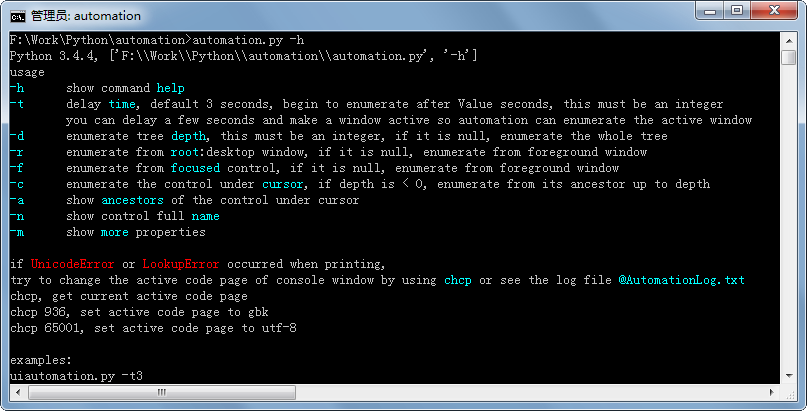
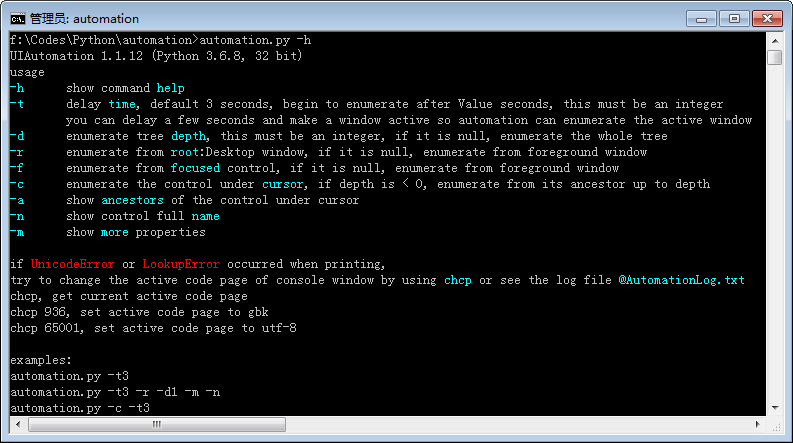
modify automation.py

Changed region(s): [[0.0, 0.0, 1.0, 1.0]]

diff --git a/automation.py b/automation.py
@@ -4,7 +4,7 @@ import sys
 import time
 
 from uiautomation import (Win32API, Logger, ControlFromCursor, GetRootControl, GetFocusedControl,
-                                       EnumAndLogControlAncestors, EnumAndLogControl, ConsoleColor)
+                            LogControl, EnumAndLogControlAncestors, EnumAndLogControl, ConsoleColor)
 from uiautomation import VERSION
 
 
@@ -14,7 +14,7 @@ def usage():
 <Color=Cyan>-t</Color>      delay <Color=Cyan>time</Color>, default 3 seconds, begin to enumerate after Value seconds, this must be an integer
         you can delay a few seconds and make a window active so automation can enumerate the active window
 <Color=Cyan>-d</Color>      enumerate tree <Color=Cyan>depth</Color>, this must be an integer, if it is null, enumerate the whole tree
-<Color=Cyan>-r</Color>      enumerate from <Color=Cyan>root</Color>:desktop window, if it is null, enumerate from foreground window
+<Color=Cyan>-r</Color>      enumerate from <Color=Cyan>root</Color>:Desktop window, if it is null, enumerate from foreground window
 <Color=Cyan>-f</Color>      enumerate from <Color=Cyan>focused</Color> control, if it is null, enumerate from foreground window
 <Color=Cyan>-c</Color>      enumerate the control under <Color=Cyan>cursor</Color>, if depth is < 0, enumerate from its ancestor up to depth
 <Color=Cyan>-a</Color>      show <Color=Cyan>ancestors</Color> of the control under cursor
@@ -48,6 +48,7 @@ def main():
     focus = False
     cursor = False
     ancestor = False
+    foreground = True
     showAllName = False
     showMore = False
     depth = 0xFFFFFFFF
@@ -58,12 +59,16 @@ def main():
             exit(0)
         elif o in ('-r', '-root'):
             root = True
+            foreground = False
         elif o in ('-f', '-focus'):
             focus = True
+            foreground = False
         elif o in ('-c', '-cursor'):
             cursor = True
+            foreground = False
         elif o in ('-a', '-ancestor'):
             ancestor = True
+            foreground = False
         elif o in ('-n', '-showAllName'):
             showAllName = True
         elif o in ('-m', '-showMore'):
@@ -73,7 +78,7 @@ def main():
         elif o in ('-t', '-time'):
             seconds = int(v)
     if seconds > 0:
-        Logger.Write('please wait for {0} seconds\n\n'.format(seconds), writeToFile=False)
+        Logger.Write('please wait for {0} seconds\n\n'.format(seconds), writeToFile = False)
         time.sleep(seconds)
     Logger.Log('Starts, Current Cursor Position: {}'.format(Win32API.GetCursorPos()))
     control = None
@@ -84,7 +89,7 @@ def main():
     if cursor:
         control = ControlFromCursor()
         if depth < 0:
-            while depth < 0:
+            while depth < 0 and control:
                 control = control.GetParentControl()
                 depth += 1
             depth = 0xFFFFFFFF
@@ -93,8 +98,9 @@ def main():
         if control:
             EnumAndLogControlAncestors(control, showAllName, showMore)
         else:
-            Logger.Write('IUIAutomation return null element under cursor\n', ConsoleColor.Yellow)
+            Logger.Write('IUIAutomation returns null element under cursor\n', ConsoleColor.Yellow)
     else:
+        indent = 0
         if not control:
             control = GetFocusedControl()
             controlList = []
@@ -105,7 +111,10 @@ def main():
                 control = controlList[0]
             else:
                 control = controlList[1]
-        EnumAndLogControl(control, depth, showAllName, showMore)
+                if foreground:
+                    indent = 1
+                    LogControl(controlList[0], 0, showAllName, showMore)
+        EnumAndLogControl(control, depth, showAllName, showMore, startIndent = indent)
     Logger.Log('Ends\n')
 
 if __name__ == '__main__':

diff --git a/scripts/automation.py b/scripts/automation.py
@@ -4,7 +4,7 @@ import sys
 import time
 
 from uiautomation import (Win32API, Logger, ControlFromCursor, GetRootControl, GetFocusedControl,
-                                       EnumAndLogControlAncestors, EnumAndLogControl, ConsoleColor)
+                            LogControl, EnumAndLogControlAncestors, EnumAndLogControl, ConsoleColor)
 from uiautomation import VERSION
 
 
@@ -14,7 +14,7 @@ def usage():
 <Color=Cyan>-t</Color>      delay <Color=Cyan>time</Color>, default 3 seconds, begin to enumerate after Value seconds, this must be an integer
         you can delay a few seconds and make a window active so automation can enumerate the active window
 <Color=Cyan>-d</Color>      enumerate tree <Color=Cyan>depth</Color>, this must be an integer, if it is null, enumerate the whole tree
-<Color=Cyan>-r</Color>      enumerate from <Color=Cyan>root</Color>:desktop window, if it is null, enumerate from foreground window
+<Color=Cyan>-r</Color>      enumerate from <Color=Cyan>root</Color>:Desktop window, if it is null, enumerate from foreground window
 <Color=Cyan>-f</Color>      enumerate from <Color=Cyan>focused</Color> control, if it is null, enumerate from foreground window
 <Color=Cyan>-c</Color>      enumerate the control under <Color=Cyan>cursor</Color>, if depth is < 0, enumerate from its ancestor up to depth
 <Color=Cyan>-a</Color>      show <Color=Cyan>ancestors</Color> of the control under cursor
@@ -48,6 +48,7 @@ def main():
     focus = False
     cursor = False
     ancestor = False
+    foreground = True
     showAllName = False
     showMore = False
     depth = 0xFFFFFFFF
@@ -58,12 +59,16 @@ def main():
             exit(0)
         elif o in ('-r', '-root'):
             root = True
+            foreground = False
         elif o in ('-f', '-focus'):
             focus = True
+            foreground = False
         elif o in ('-c', '-cursor'):
             cursor = True
+            foreground = False
         elif o in ('-a', '-ancestor'):
             ancestor = True
+            foreground = False
         elif o in ('-n', '-showAllName'):
             showAllName = True
         elif o in ('-m', '-showMore'):
@@ -73,7 +78,7 @@ def main():
         elif o in ('-t', '-time'):
             seconds = int(v)
     if seconds > 0:
-        Logger.Write('please wait for {0} seconds\n\n'.format(seconds), writeToFile=False)
+        Logger.Write('please wait for {0} seconds\n\n'.format(seconds), writeToFile = False)
         time.sleep(seconds)
     Logger.Log('Starts, Current Cursor Position: {}'.format(Win32API.GetCursorPos()))
     control = None
@@ -84,7 +89,7 @@ def main():
     if cursor:
         control = ControlFromCursor()
         if depth < 0:
-            while depth < 0:
+            while depth < 0 and control:
                 control = control.GetParentControl()
                 depth += 1
             depth = 0xFFFFFFFF
@@ -93,8 +98,9 @@ def main():
         if control:
             EnumAndLogControlAncestors(control, showAllName, showMore)
         else:
-            Logger.Write('IUIAutomation return null element under cursor\n', ConsoleColor.Yellow)
+            Logger.Write('IUIAutomation returns null element under cursor\n', ConsoleColor.Yellow)
     else:
+        indent = 0
         if not control:
             control = GetFocusedControl()
             controlList = []
@@ -105,7 +111,10 @@ def main():
                 control = controlList[0]
             else:
                 control = controlList[1]
-        EnumAndLogControl(control, depth, showAllName, showMore)
+                if foreground:
+                    indent = 1
+                    LogControl(controlList[0], 0, showAllName, showMore)
+        EnumAndLogControl(control, depth, showAllName, showMore, startIndent = indent)
     Logger.Log('Ends\n')
 
 if __name__ == '__main__':

diff --git a/uiautomation/uiautomation.py b/uiautomation/uiautomation.py
@@ -2401,7 +2401,7 @@ class Control(LegacyIAccessiblePattern, QTPLikeSyntaxSupport):
         element: integer
         searchFromControl: Control, if is None, search from root control
         searchDepth: integer, max search depth from searchFromControl
-        foundIndex: integer, value must be greater or equal to 1
+        foundIndex: integer, value must >= 1
         searchWaitTime: float, wait searchWaitTime before every search
         searchPorpertyDict: a dict that defines how to search, only the following keys are valid
                             ControlType: integer in class ControlType
@@ -2410,7 +2410,7 @@ class Control(LegacyIAccessiblePattern, QTPLikeSyntaxSupport):
                             Name: str or unicode
                             SubName: str or unicode
                             RegexName: str or unicode, supports regex
-                            Depth: integer, exact depth from searchFromControl, if set, searchDepth will be set to Depth too
+                            Depth: integer, relative depth from searchFromControl, if set, searchDepth will be set to Depth too
                             Compare: custom compare function(control, depth)
         """
         self._element = element
@@ -4380,7 +4380,7 @@ def EnumAndLogControlAncestors(control, showAllName = True, showMore = False):
         LogControl(control, i, showAllName, showMore)
 
 
-def EnumAndLogControl(control, maxDepth = 0xFFFFFFFF, showAllName = True, showMore = False):
+def EnumAndLogControl(control, maxDepth = 0xFFFFFFFF, showAllName = True, showMore = False, startIndent = 0):
     """
     control: Control
     maxDepth: integer
@@ -4388,7 +4388,7 @@ def EnumAndLogControl(control, maxDepth = 0xFFFFFFFF, showAllName = True, showMo
     showMore: bool
     """
     for c, d in WalkControl(control, True, maxDepth):
-        LogControl(c, d, showAllName, showMore)
+        LogControl(c, d + startIndent, showAllName, showMore)
 
 
 def FindControl(control, compareFunc, maxDepth = 0xFFFFFFFF, findFromSelf = False, foundIndex = 1):

diff --git a/uiautomation/version.py b/uiautomation/version.py
@@ -1,1 +1,1 @@
-VERSION = "1.1.11"
+VERSION = "1.1.12"

diff --git a/readme.md b/readme.md
@@ -46,36 +46,46 @@ run notepad.exe, run automation.py -t 3, swith to Notepad and wait for 5 seconds
   
 automation.py will print the controls of Notepad and save them to @AutomationLog.txt:  
   
-ControlType: WindowControl    ClassName: Notepad  
-　　ControlType: EditControl    ClassName: Edit  
-　　　　ControlType: ScrollBarControl    ClassName:  
-　　　　　　ControlType: ButtonControl    ClassName:  
-　　　　　　ControlType: ButtonControl    ClassName:  
-　　　　ControlType: ScrollBarControl    ClassName:  
-　　　　　　ControlType: ButtonControl    ClassName:  
-　　　　　　ControlType: ButtonControl    ClassName:  
-　　　　ControlType: ThumbControl    ClassName:  
-　　ControlType: StatusBarControl    ClassName:  
-　　　　ControlType: TextControl    ClassName:  
-　　　　ControlType: TextControl    ClassName:  
+ControlType: PaneControl    ClassName: #32769    Name: 桌面    Depth: 0    **(Desktop window, the root control)**  
+　　ControlType: WindowControl    ClassName: Notepad    Depth: 1    **(Top level window)**  
+　　　　ControlType: EditControl    ClassName: Edit    Depth: 2  
+　　　　　　ControlType: ScrollBarControl    ClassName:     Depth: 3  
+　　　　　　　　ControlType: ButtonControl    ClassName:     Depth: 4  
+　　　　　　　　ControlType: ButtonControl    ClassName:     Depth: 4  
+　　　　　　ControlType: ThumbControl    ClassName:     Depth: 3  
+　　　　ControlType: TitleBarControl    ClassName:     Depth: 2  
+　　　　　　ControlType: MenuBarControl    ClassName:     Depth: 3  
+　　　　　　　　ControlType: MenuItemControl    ClassName:     Depth: 4  
+　　　　　　ControlType: ButtonControl    ClassName:     Name: 最小化    Depth: 3    **(Minimize Button)**  
+　　　　　　ControlType: ButtonControl    ClassName:     Name: 最大化    Depth: 3    **(Maximize Button)**  
+　　　　　　ControlType: ButtonControl    ClassName:     Name: 关闭    Depth: 3    **(Close Button)**  
 ...  
 
 run the following code
 ```python
+# -*- coding: utf-8 -*-
 import subprocess
-import uiautomation as automation
+import uiautomation as auto
 
-print(automation.GetRootControl())
+print(auto.GetRootControl())
 subprocess.Popen('notepad.exe')
-notepadWindow = automation.WindowControl(searchDepth = 1, ClassName = 'Notepad')
+# you should find the top level window first, then find children from the top level window
+notepadWindow = auto.WindowControl(searchDepth = 1, ClassName = 'Notepad')
 print(notepadWindow.Name)
 notepadWindow.SetTopmost(True)
+# find the first EditControl in notepadWindow
 edit = notepadWindow.EditControl()
 edit.SetValue('Hello')
 edit.SendKeys('{Ctrl}{End}{Enter}World')
-
+# find the first TitleBarControl in notepadWindow, 
+# then find the second ButtonControl in TitleBarControl, which is the Maximize button
+notepadWindow.TitleBarControl().ButtonControl(foundIndex = 2).Click()
+# find the first button in notepadWindow whose Name is '关闭', the close button, the relative depth from Close button to Notepad window is 2
+notepadWindow.ButtonControl(searchDepth = 2, Name = '关闭').Click()
+# then notepad will popup a window askes you to save or not, press hotkey alt+n not to save
+auto.SendKeys('{Alt}n')
 ```
-automation.GetRootControl() returns the root control  
+automation.GetRootControl() returns the root control(the Desktop window)  
 automation.WindowControl(searchDepth = 1, ClassName = 'Notepad') creates a WindowControl, the parameters specify how to search the control  
 the following parameters can be used  
 searchFromControl = None,   
